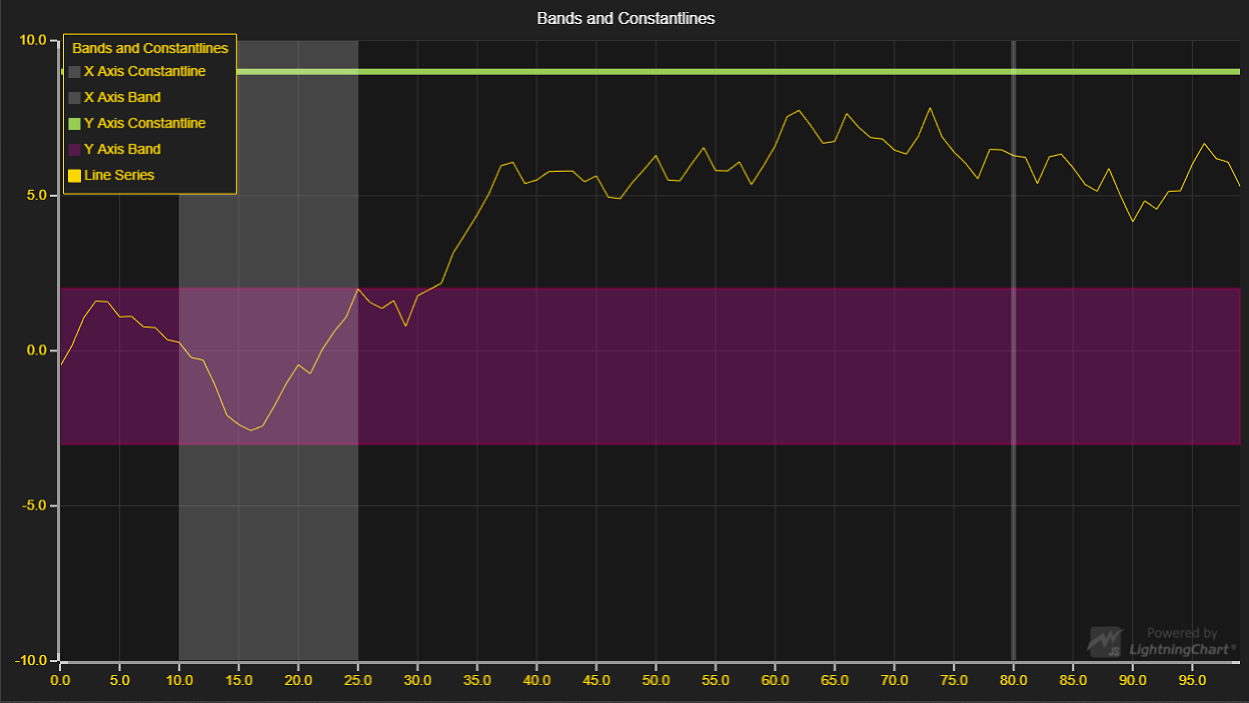
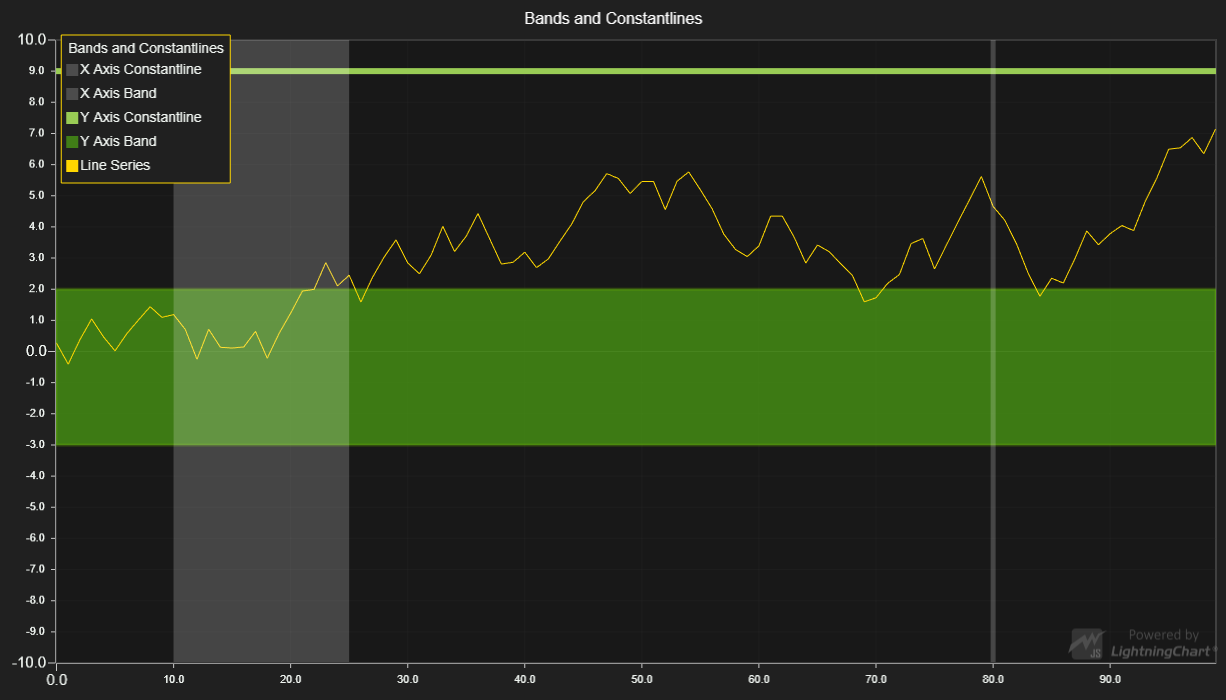
LCJS 2.0.0

diff --git a/src/index.js b/src/index.js
@@ -11,7 +11,8 @@ const {
     UIOrigins,
     ColorHEX,
     SolidLine,
-    SolidFill
+    SolidFill,
+    Themes
 } = lcjs
 
 // Import data-generator from 'xydata'-library.
@@ -22,7 +23,9 @@ const {
 const chartTitle = 'Bands and Constantlines'
 
 // Create a XY Chart.
-const chart = lightningChart().ChartXY()
+const chart = lightningChart().ChartXY({
+    // theme: Themes.dark
+})
     .setTitle(chartTitle)
 
 // Add a progressive line series.
@@ -41,12 +44,12 @@ createProgressiveTraceGenerator()
 const xAxis = chart.getDefaultAxisX()
 const yAxis = chart.getDefaultAxisY()
     // Set the interval for Y Axis.
-    .setInterval( -10, 10, true, true )
+    .setInterval(-10, 10, true, true)
 
 // Add a Constantline to the X Axis
 const xAxisConstantline = xAxis.addConstantLine()
 // Position the Constantline in the Axis Scale
-xAxisConstantline.setValue( 80 )
+xAxisConstantline.setValue(80)
 // The name of the Constantline will be shown in the LegendBox
 xAxisConstantline.setName('X Axis Constantline')
 
@@ -54,8 +57,8 @@ xAxisConstantline.setName('X Axis Constantline')
 const xAxisBand = xAxis.addBand()
 // Set the start and end values of the Band.
 xAxisBand
-    .setValueStart( 10 )
-    .setValueEnd( 25 )
+    .setValueStart(10)
+    .setValueEnd(25)
     // Set the name of the Band
     .setName('X Axis Band')
 
@@ -63,43 +66,43 @@ xAxisBand
 
 // If 'false' is given as argument here, the Constantline will be rendered behind
 // all the Series in the Chart.
-const yAxisConstantLine = yAxis.addConstantLine( false )
+const yAxisConstantLine = yAxis.addConstantLine(false)
 yAxisConstantLine.setName('Y Axis Constantline')
 // Giving 'false' as argument here makes sure the Band is rendered behind all
 // the Series in the Chart.
-const yAxisBand = yAxis.addBand( false )
+const yAxisBand = yAxis.addBand(false)
 yAxisBand.setName('Y Axis Band')
 
 // Position the Y Axis ConstantLine along the visible Scale of the Axis.
-yAxisConstantLine.setValue( 9 )
+yAxisConstantLine.setValue(9)
 
 // Position the Y Axis Band along the visible Scale of the Axis.
 yAxisBand
-    .setValueEnd( 2 )
-    .setValueStart( -3 )
+    .setValueEnd(2)
+    .setValueStart(-3)
 
 // Style the Y Axis Band
 yAxisBand
     .setStrokeStyle(
-        new SolidLine( {
+        new SolidLine({
             thickness: 3,
-            fillStyle: new SolidFill( {color: ColorHEX( '#6a05' )})
+            fillStyle: new SolidFill({ color: ColorHEX('#6a05') })
         })
     )
 yAxisBand
     .setFillStyle(
-        new SolidFill( { color: ColorHEX( '#5b19' ) } )
+        new SolidFill({ color: ColorHEX('#5b19') })
     )
 
 // Style the Y Axis Constantline
 yAxisConstantLine.setStrokeStyle(
-    new SolidLine( {
+    new SolidLine({
         thickness: 6,
-        fillStyle: new SolidFill( { color: ColorHEX( '#9c5' ) } )
-    } ) )
+        fillStyle: new SolidFill({ color: ColorHEX('#9c5') })
+    }))
 
 // Add a LegendBox, add the Chart in it and position it.
 chart.addLegendBox()
-    .setPosition( {x: 5, y: 95 } )
-    .setOrigin( UIOrigins.LeftTop )
+    .setPosition({ x: 5, y: 95 })
+    .setOrigin(UIOrigins.LeftTop)
     .add(chart)

diff --git a/README.md b/README.md
@@ -101,11 +101,11 @@ band.setFillStyle(
 
 ## API Links
 
-* XY cartesian chart: [ChartXY]
-* Progressive line series: [ProgressiveLineSeries]
-* HEX color factory: [ColorHEX]
-* Bands: [Band]
-* ConstantLines: [ConstantLine]
+* [XY cartesian chart]
+* [Progressive line series]
+* [HEX color factory]
+* [Bands]
+* [ConstantLines]
 
 
 ## Support
@@ -129,9 +129,9 @@ Direct developer email support can be purchased through a [Support Plan][4] or b
 © Arction Ltd 2009-2020. All rights reserved.
 
 
-[ChartXY]: https://www.arction.com/lightningchart-js-api-documentation/v1.3.0/classes/chartxy.html
-[ProgressiveLineSeries]: https://www.arction.com/lightningchart-js-api-documentation/v1.3.0/classes/progressivelineseries.html
-[ColorHEX]: https://www.arction.com/lightningchart-js-api-documentation/v1.3.0/globals.html#colorhex
-[Band]: https://www.arction.com/lightningchart-js-api-documentation/v1.3.0/classes/band.html
-[ConstantLine]: https://www.arction.com/lightningchart-js-api-documentation/v1.3.0/classes/constantline.html
+[XY cartesian chart]: https://www.arction.com/lightningchart-js-api-documentation/v2.0.0/classes/chartxy.html
+[Progressive line series]: https://www.arction.com/lightningchart-js-api-documentation/v2.0.0/classes/progressivelineseries.html
+[HEX color factory]: https://www.arction.com/lightningchart-js-api-documentation/v2.0.0/globals.html#colorhex
+[Bands]: https://www.arction.com/lightningchart-js-api-documentation/v2.0.0/classes/band.html
+[ConstantLines]: https://www.arction.com/lightningchart-js-api-documentation/v2.0.0/classes/constantline.html
 
